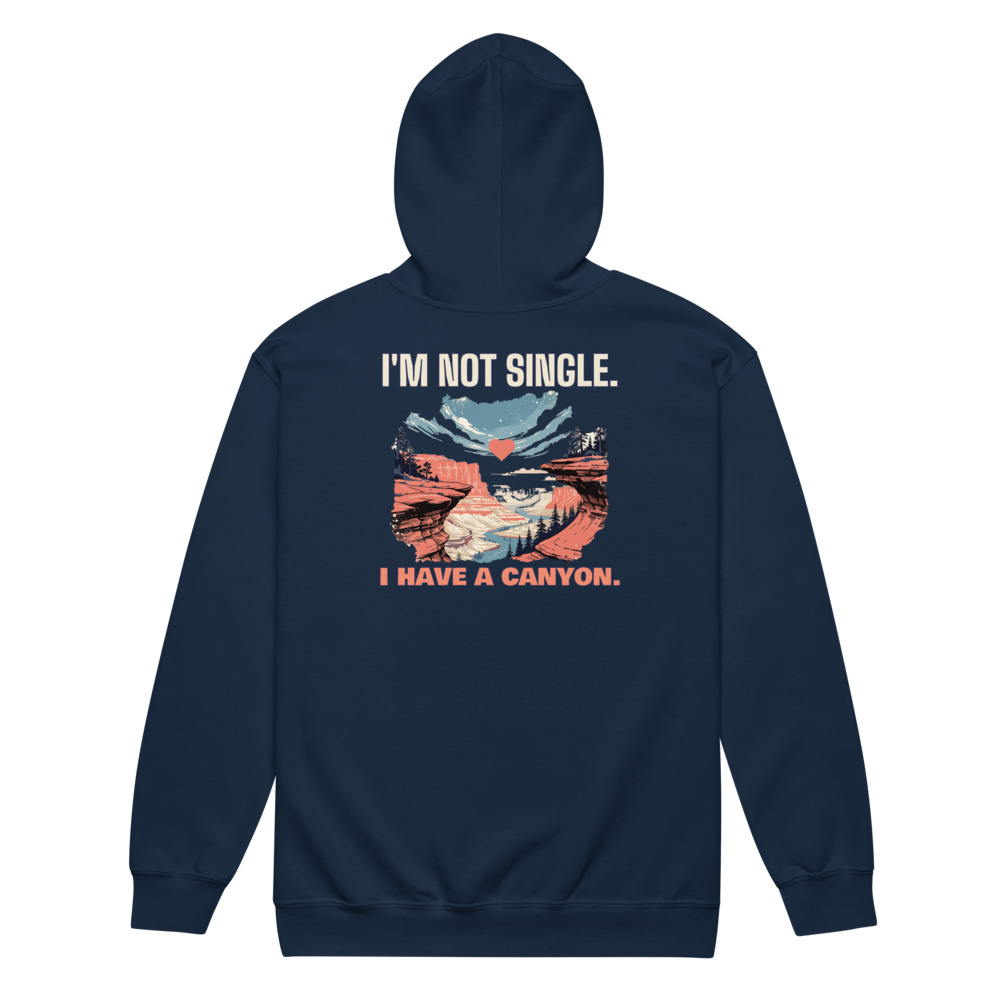
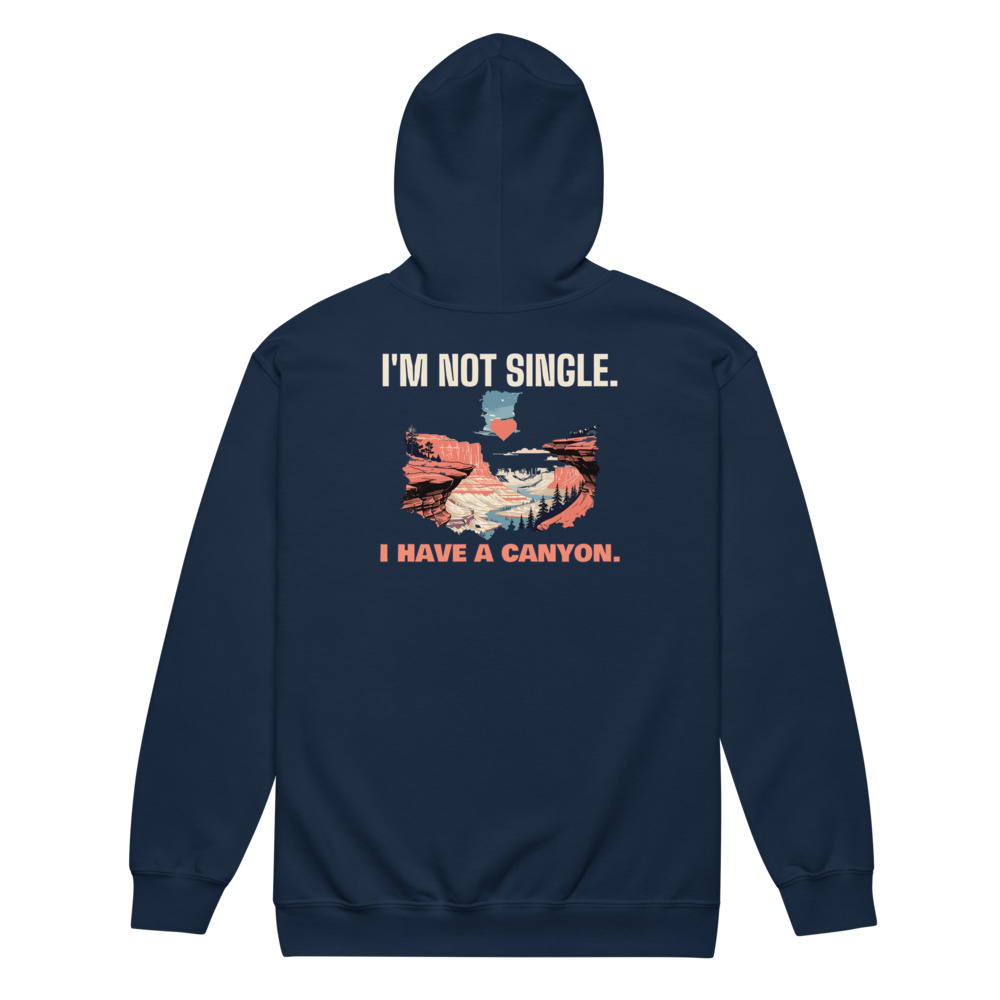
[C] review 509 canyon zip hoodie (round 3)

Changed region(s): [[0.372, 0.372, 0.62, 0.589]]

diff --git a/designs/c509/make4.py b/designs/c509/make4.py
@@ -1,0 +1,9 @@
+import sys; sys.path.insert(0,'.')
+from designs.lib import *
+im=Image.open('docs/print-files/509-swipe-right-public-land.png').convert('RGBA'); W=im.width
+art=Image.open('designs/c509/art_rag4.png').convert('RGBA'); art=art.crop(art.getbbox()); art=art.resize((int(art.width*1.05),int(art.height*1.05)),Image.LANCZOS)
+DK=(30,40,76,255); CORAL=(248,140,112,255); DCOR=(170,56,44,255)
+for tag,c1,k1,c2,k2,bg in (('ash',DK,CREAM,DCOR,CREAM,(200,200,200,255)),('navy',CREAM,DK,CORAL,DK,(38,50,88,255))):
+    h1=line("I'M NOT SINGLE.",'big',0.97,W,c1,k1,kw=27); h2=line("I HAVE A CANYON.",'bowlby',0.985,W,c2,k2,kw=29)
+    print(tag,'headline px',h1.width,'punch px',h2.width,'heights',h1.height,h2.height,'art',art.size)
+    out=lockup(art,W,[h1],[h2],f'509-v4-canyon-{tag}',{tag:bg}); print(out.size)

diff --git a/docs/pipeline/509-national-park-zip-hoodie-swipe-right-on-public-land.md b/docs/pipeline/509-national-park-zip-hoodie-swipe-right-on-public-land.md
@@ -1,4 +1,4 @@
-status: REDO
+status: REVIEW
 lane: C
 type: new
 id: 509
@@ -38,3 +38,4 @@ kd: 32
   2. Line and type stay (I'M NOT SINGLE. / I HAVE A CANYON.).
 - 2026-10-20 08:37 UTC builder [C]: REDO round 2 per the director's 08:45 note (R4.1: the canyon scene was cut into a shield with a pointed bottom). Line and type unchanged (I'M NOT SINGLE. / I HAVE A CANYON.; headline 3034 px / punch 3096 px). Art: the pointed bottom tip is cut off at the river and rock line (2230 of 2788 px kept) and the whole outer edge (left and right canyon walls, trees, sky rays, bottom) is carved into worn, uneven edges with a new script designs/rough2.py that measures distance only to the OUTSIDE of the art, so the knocked-out sky inside the scene is not eaten (scripts/ragged-edge.py and my first carve both ate the sky). No shield, point or straight side left at phone size on either mockup. The small chest copy was rebuilt from the same carved art (file 1090258837; the old chest copy was still the shield). Files: Ash back 1090258924, Navy back 1090258961 (docs/print-files/509-v3-canyon-ash.png / -navy.png), BW 1650 BT 225, 12/12 relinked (verified on the API). Light-file split unchanged (Ash navy headline / Navy cream headline). Both back mockups replaced in place, read at phone size. Title and copy unchanged. fal $0.
 - 2026-10-20 09:20 UTC director: REDO from docs/review/509.jpg. 1) R4.1 (round 3): the canyon is no longer a shield but is now a squared block (straight left and right cliff edges, flat bottom); on the Ash back print it reads as a postcard. Break the sides: let the sky swirl and the heart float free above with no edge, end the canyon walls on uneven rock and pine shapes, ragged bottom. No new fal needed. 2) Line I'M NOT SINGLE. / I HAVE A CANYON. passes; keep it.
+- 2026-10-20 12:20 UTC builder [C]: REDO round 3 per the director's 09:20 note (R4.1: canyon read as a squared block). Line and type kept (I'M NOT SINGLE. / I HAVE A CANYON.; headline 3034 px / punch 3096 px = 102%). Art: outer edge carved much deeper (rough2 depth 330 on the uncut art, designs/c509/make4.py) so the left and right cliffs, pines and bottom end on uneven rock and tree shapes, no straight side and no flat bottom; the sky swirl is gone except a free-floating patch with the coral heart (heart restored whole, no edge around it). Chest copy rebuilt from the new art (file 1090318272). Back files Ash 1090318314 (navy headline / rust punch) / Navy 1090318380 (cream / coral), BW 1650 BT 225, 12/12 relinked and verified on the API. All four mockups (front and back, both colors) replaced in place. Phone-size read ok. fal $0.

diff --git a/docs/intake-log.md b/docs/intake-log.md
@@ -1,5 +1,6 @@
 2026-10-20 11:40 UTC — [D] Director run: inbox nothing new. 6 LIVE (cap): #284 #319 #332 #362 #366 #378, audit PASS. Reviewed 10 new redos: 5 approved and held (#417 #507 #573 #588 #616), 5 REDO (#408 #447 subject too small, builder card 7l; #482 DIDN"T glyph + tiny caption; #545 leftover specks; #575 type over the bench). Lane E brief #717 beekeeping (1,300/KD 23); READY A/B/C/E 12 each. No Telegram (digest is the first run after 12:00 UTC).
 RUNNING lane C since 2026-10-20 11:05 UTC
+2026-10-20 12:20 UTC — [C] Builder run: redid #509 Swipe Right zip hoodie round 3 (canyon block broken into free-form shapes). REVIEW. fal $0.
 2026-10-20 11:50 UTC — [C] Builder run: redid #507 My Type Geothermally Active hoodie round 4 (forest band removed, MY TYPE? widened). REVIEW. fal $0.
 RUNNING lane E since 2026-10-20 10:50 UTC
 2026-10-20 11:04 UTC — [A] Builder run: redid #447 Women's Alpaca hoodie again (headline above, two-line punch below, type 41% of the print, new title). REVIEW. fal $0.
